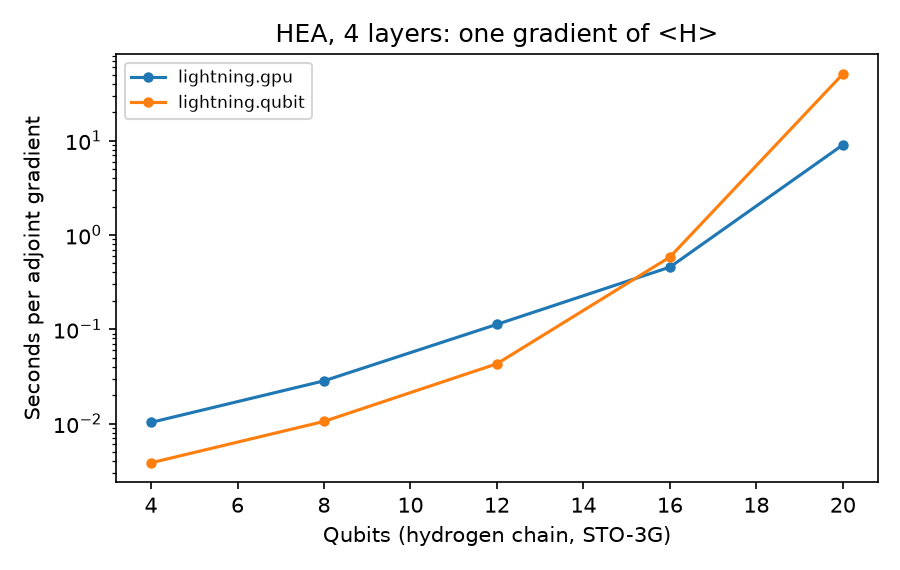
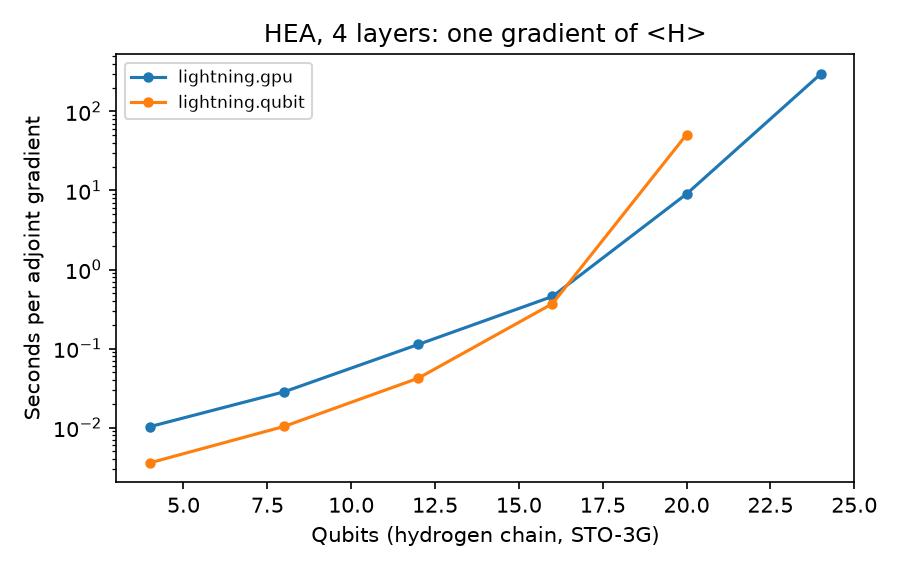
README: CPU timings on 4 cores and the 24-qubit GPU point
With every CPU row on 4 cores the CPU is faster up to 16 qubits and the curves
cross between 16 and 20. At 24 qubits one gradient takes 298 s on the GPU,
almost all of it in the expectation value. Figure redrawn from the CSV.

diff --git a/VQE_Molecules/README.md b/VQE_Molecules/README.md
@@ -10,7 +10,7 @@ A comparison of variational quantum eigensolver (VQE) ansätze on the ground-sta
 - **Control for the starting point.** Starting the HEA next to the Hartree–Fock state removed the spread between seeds, but all 75 control runs settled on the Hartree–Fock energy and none went below it. The starting point explains the large errors of the randomly initialised HEA; it does not explain its failure to reach chemical accuracy.
 - **BeH2 (14 qubits)** repeats the comparison on a larger molecule. UCCSD (204 parameters) reached chemical accuracy at 3 of 5 bond lengths and ended at 5.7 and 5.3 mHa at the two stretched ones. Both HEA results carried over: 0 of 75 runs within chemical accuracy from random angles, and all 75 runs started from Hartree–Fock ended on the Hartree–Fock energy.
 - **ADAPT-VQE** selects UCCSD's gates one at a time by gradient. On LiH it reached chemical accuracy with 4 to 7 parameters at all 5 bond lengths and stopped with 26 to 29, against 92 for UCCSD. Its final error is between 11% below and 9% above UCCSD's at four bond lengths and about twice UCCSD's at 3.20 Å. It needed about 2300 to 2600 optimiser steps per bond length against about 100.
-- **Simulation time.** On hydrogen chains, one adjoint gradient on an NVIDIA H100 GPU slice was slower than on CPU up to 12 qubits and 5.6 times faster at 20 qubits (9.0 s against 51.0 s on 4 CPU cores).
+- **Simulation time.** On hydrogen chains, one adjoint gradient on an NVIDIA H100 GPU slice was slower than on 4 CPU cores up to 16 qubits and 5.6 times faster at 20 qubits (9.0 s against 51.0 s). At 24 qubits the GPU took 298 s.
 
 ## Roadmap
 
@@ -22,7 +22,7 @@ A comparison of variational quantum eigensolver (VQE) ansätze on the ground-sta
 | 3 | LiH: UCCSD against HEA, with a control for the starting point | Done |
 | 4 | BeH2 (14 qubits): UCCSD against HEA | Done |
 | 5 | ADAPT-VQE: error against number of parameters, compared with UCCSD | Done for H2 and LiH |
-| 6 | CPU against GPU statevector simulation time on hydrogen chains | Done up to 20 qubits; 24 qubits not reached |
+| 6 | CPU against GPU statevector simulation time on hydrogen chains | Done: CPU and GPU to 20 qubits, GPU at 24 |
 
 ## Files
 
@@ -186,18 +186,19 @@ Seconds for one adjoint gradient:
 
 | Chain | Qubits | Pauli terms | Parameters | CPU | GPU | CPU / GPU |
 |---|---|---|---|---|---|---|
-| H2 | 4 | 15 | 32 | 0.0038 | 0.0103 | 0.37 |
-| H4 | 8 | 185 | 64 | 0.0105 | 0.0283 | 0.37 |
-| H6 | 12 | 919 | 96 | 0.0431 | 0.1127 | 0.38 |
-| H8 | 16 | 2913 | 128 | 0.583 | 0.456 | 1.28 |
+| H2 | 4 | 15 | 32 | 0.0036 | 0.0103 | 0.35 |
+| H4 | 8 | 185 | 64 | 0.0103 | 0.0283 | 0.36 |
+| H6 | 12 | 919 | 96 | 0.0422 | 0.1127 | 0.37 |
+| H8 | 16 | 2913 | 128 | 0.369 | 0.456 | 0.81 |
 | H10 | 20 | 7151 | 160 | 51.0 | 9.03 | 5.6 |
+| H12 | 24 | 14905 | 192 | not run | 298 | |
 
 ![CPU and GPU time per gradient](figures/gpu_scaling.png)
 
-- Up to 12 qubits the GPU is about 2.6 times slower than the CPU: the state vector is small and the fixed cost of each GPU call dominates. The two curves cross between 12 and 16 qubits, and at 20 qubits the GPU is 5.6 times faster.
-- From 16 to 20 qubits the CPU time grows 87-fold and the GPU time 20-fold. Both the state vector (16 times larger) and the number of Pauli terms (2.5 times more) grow over that step.
-- Hardware: GPU runs on one MIG slice (1g.10gb, about 10 GB) of an NVIDIA H100 80GB HBM3 on the Fir cluster, PennyLane 0.45.1 with `pennylane-lightning-gpu` 0.45.0 and cuQuantum 25.06. The CPU rows for 4 to 16 qubits were measured in an earlier session with 2 cores; the 20-qubit CPU row was measured in the GPU job with 4 cores. The CPU side therefore did not have the same core count throughout.
-- H12 (24 qubits) is missing: the job reached its 2-hour limit, most likely during the CPU timing at 24 qubits. This was not checked.
+- Up to 16 qubits the CPU is faster: 2.7 to 2.9 times at 4 to 12 qubits, where the state vector is small and the fixed cost of each GPU call dominates, and 1.2 times at 16 qubits. The curves cross between 16 and 20 qubits, and at 20 qubits the GPU is 5.6 times faster.
+- From 16 to 20 qubits the CPU time grows 138-fold and the GPU time 20-fold. Both the state vector (16 times larger) and the number of Pauli terms (2.5 times more) grow over that step.
+- At 24 qubits the GPU took 298 s per gradient, 33 times its 20-qubit time. The energy alone took the same time (298.13 s against 298.14 s for energy and gradient), so at this size the cost is the expectation value of the 14,905-term Hamiltonian, not the adjoint differentiation. The CPU was not run at 24 qubits. Scaling its 20-qubit time by the GPU's 20-to-24 growth gives about half an hour per gradient, and by its own 16-to-20 growth about two hours; both are extrapolations, not measurements.
+- Hardware: one MIG slice (1g.10gb, about 10 GB) of an NVIDIA H100 80GB HBM3 and 4 CPU cores on the Fir cluster, PennyLane 0.45.1 with `pennylane-lightning-gpu` 0.45.0 and cuQuantum 25.06. All CPU rows use 4 cores. The 24-qubit time is a single repeat; the others are the smallest of 3.
 
 ## Reproduce
 

diff --git a/README.md b/README.md
@@ -14,7 +14,7 @@ Each experiment is set up the same way: a fixed optimisation budget shared by ev
 
 Error against the exact energy during training, LiH at 1.60 Å. One line per run; the dashed line is chemical accuracy (1.6 mHa). Details and limitations are in the [project README](VQE_Molecules/README.md).
 
-Simulation time on hydrogen chains: on an NVIDIA H100 GPU slice, one VQE gradient at 20 qubits took 9.0 s against 51.0 s on 4 CPU cores; up to 12 qubits the CPU was faster. Details in the [project README](VQE_Molecules/README.md#simulation-time-against-the-number-of-qubits).
+Simulation time on hydrogen chains: on an NVIDIA H100 GPU slice, one VQE gradient at 20 qubits took 9.0 s against 51.0 s on 4 CPU cores, and 298 s at 24 qubits; up to 16 qubits the CPU was faster. Details in the [project README](VQE_Molecules/README.md#simulation-time-against-the-number-of-qubits).
 
 ## Repository layout
 
